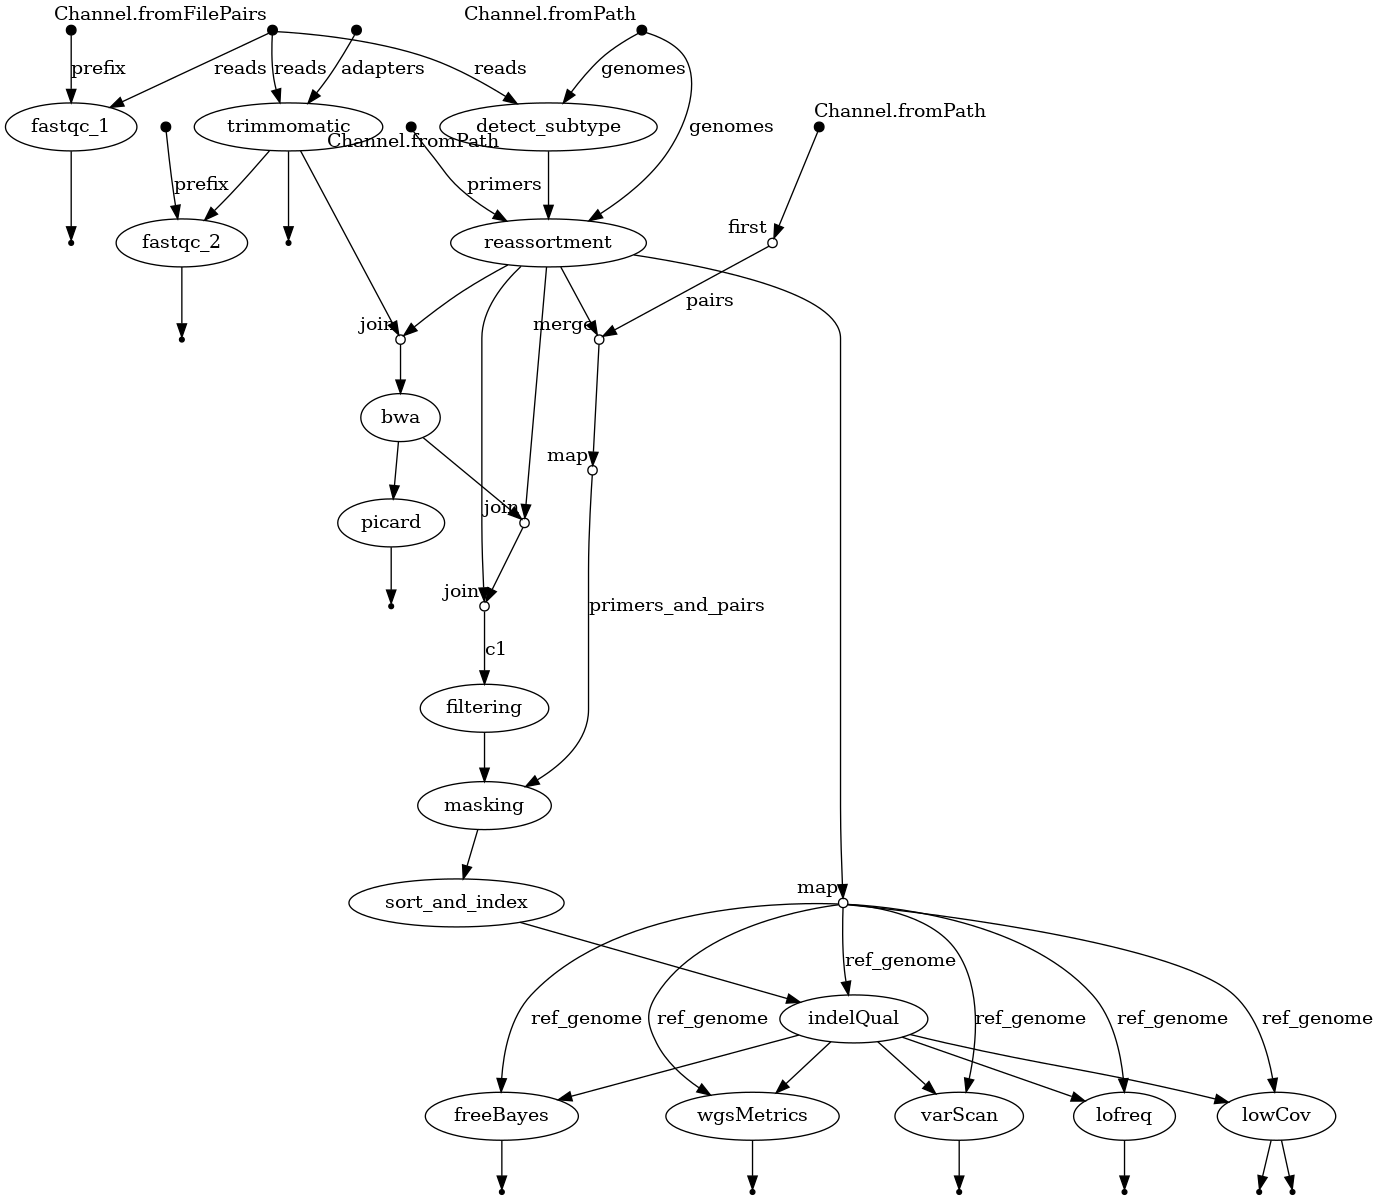
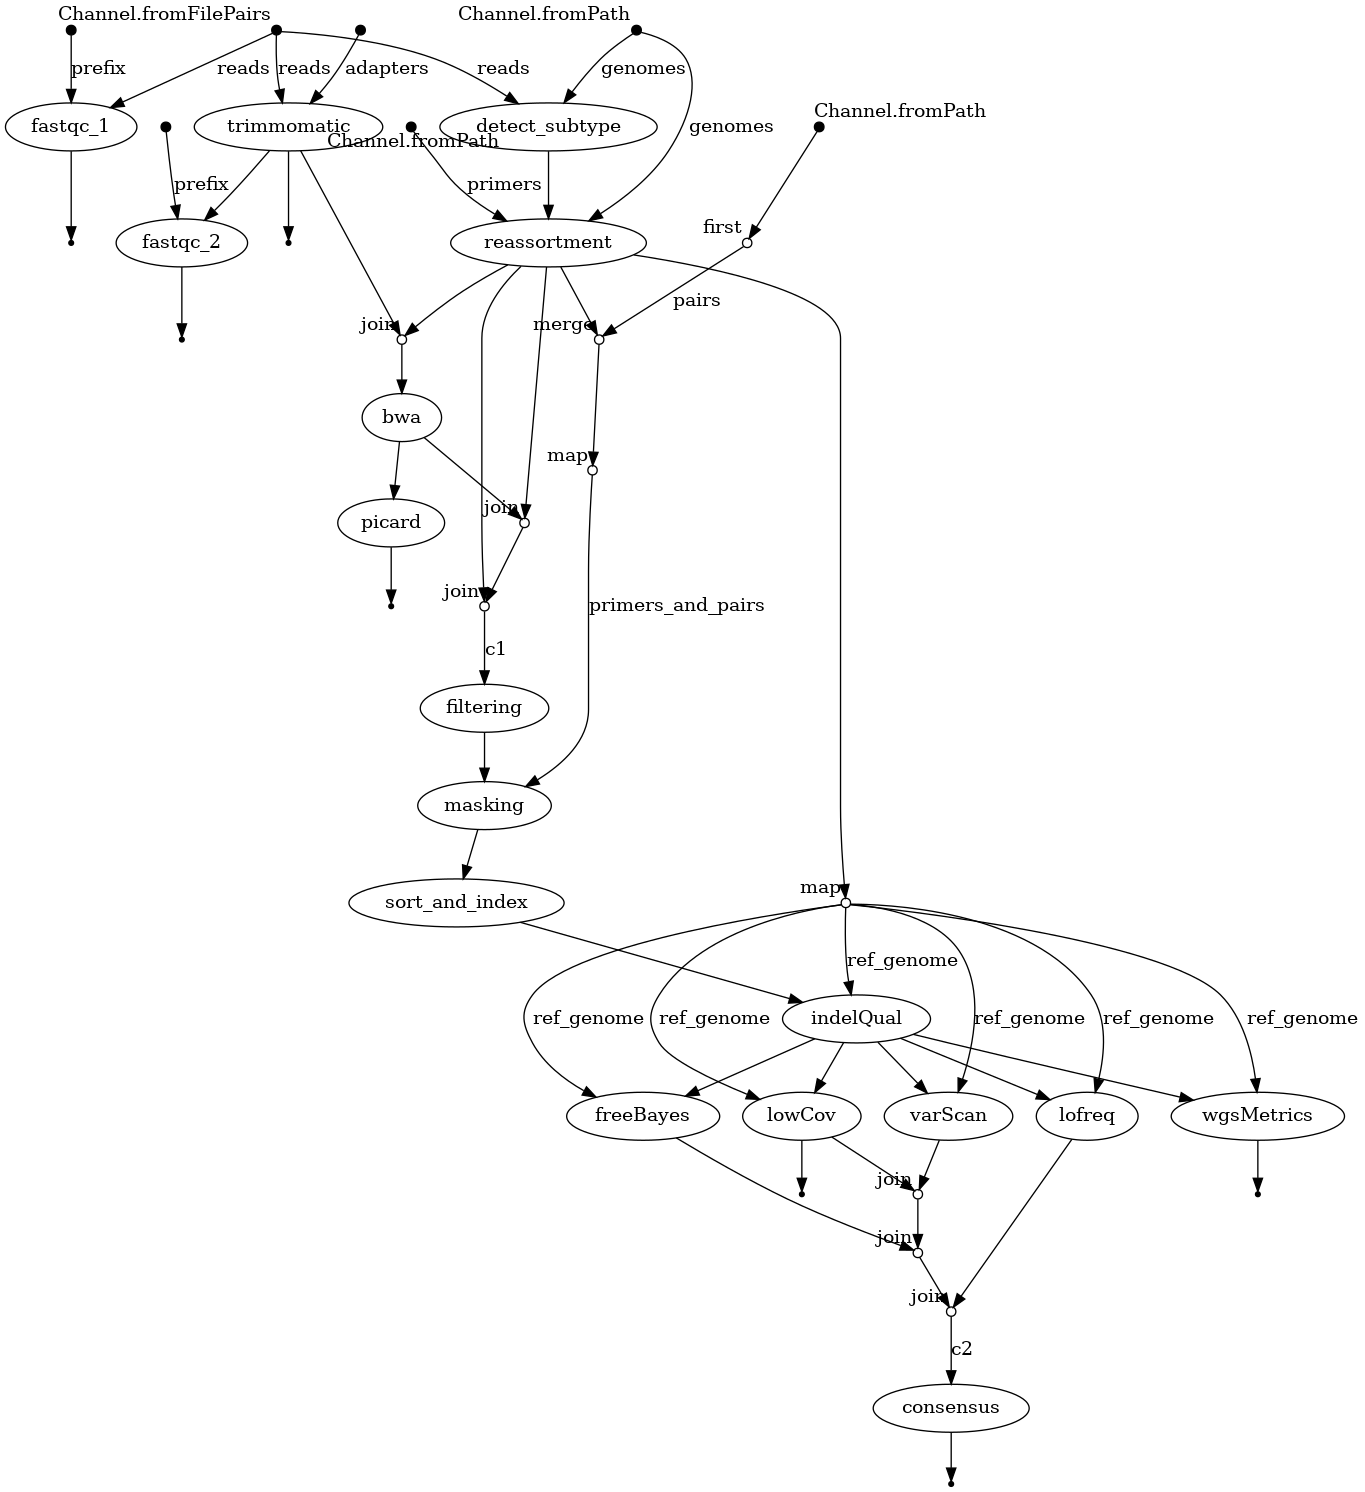
SARS and INFL pipelines merged up to consensus

diff --git a/bin/common/make_consensus.py b/bin/common/make_consensus.py
@@ -1,0 +1,147 @@
+#!/usr/bin/env python3
+
+"""
+Simple script to replace low-coverage aminoacids with N in a sequence
+Input is a alignment between reference (with N in place of low coverage regions) and a sequence with SNPs and SV
+Elements of the latter sequence will be replaced with Ns
+
+Uwaga skrypt podmieniony pod grype ktora ma wiele segmentow wiec alignment i maskowanie jest w python
+"""
+
+import os
+import re
+import subprocess
+import sys
+from typing import Dict
+
+import numpy as np
+from Bio import AlignIO
+from Bio import SeqIO
+from Bio.Align import AlignInfo
+
+
+def create_consensus(input_aln, segment):
+    alignment = AlignIO.read(input_aln, "fasta")
+    summary_align = AlignInfo.SummaryInfo(alignment)
+    with open(f'output_{segment}_consensus.fa', 'w') as f:
+        f.write(f'>{segment}\n')
+        f.write(str(summary_align.gap_consensus(threshold=0.6, ambiguous='X')))
+    return True
+
+
+def align_fasta(fasta1_file: str, *args, **kwargs) -> Dict:
+    """
+    funkcja do alignowania sekwencji.  Sekwencje albo sa w oddzielnych plikach i wtedy laczymy je w jednym
+    tmp file (usuwanym po wykonaniu funkcji), albo w jednym pliku. Do alignowania uzywamy maffta w strategii
+    auto
+    :param fasta1_file: str, sciezka do pliku fasta zawierajacego jedna lub wiecej sekwencji
+    :param args: tupple, sciezka do dowolnej liczy plikow fasta
+    :return: dict, slownik ktora jako klucze zawiera identyfikatory sekwencji z podanych pliku/plikow a jako klucze
+    alignowano sekwencje
+    """
+
+    # Najpierw normalizujemy sciezki  isprawdzamy czy podane plik/pliki istnieja
+    fasta1_file = [os.path.abspath(fasta1_file)]
+    stan1 = os.path.isfile(fasta1_file[0])
+    if not stan1:
+        raise Exception('Nie podano poprawnej sciezki do pliku!')
+    if len(args) > 0:
+        fasta1_file.extend([os.path.abspath(x) for x in args])
+        stan2 = np.alltrue([os.path.isfile(plik) for plik in fasta1_file])
+        if not stan2:
+            raise Exception('Podane dodatkowe pliki nie istnieja')
+
+    for plik in fasta1_file:
+        with open('tmp.fasta', 'a+') as f, open(plik, 'r') as f1:
+            for line in f1:
+                f.write(line)
+
+    polecenie = ('mafft --globalpair --maxiterate 1000 --quiet --inputorder tmp.fasta')
+    if 'fast' in kwargs.keys():
+        polecenie = ('mafft --retree 1 --quiet --inputorder tmp.fasta')  # komenda z
+    alignment = subprocess.Popen(polecenie, shell=True, stdout=subprocess.PIPE)
+
+    # generowanie slownika
+    slownik_alignmentu = {}
+    for line in alignment.stdout:
+        line = line.decode('UTF-8').rstrip()
+        if len(re.findall(">", line)) > 0:
+            klucz = line[:]
+            if klucz not in slownik_alignmentu.keys():
+                slownik_alignmentu[klucz] = ''
+        else:
+            slownik_alignmentu[klucz] = slownik_alignmentu[klucz] + line
+    # pozbywamy sie tepowego pliku
+    os.remove('tmp.fasta')
+
+    return slownik_alignmentu
+
+
+def get_fastas(input_fasta, program):
+    """
+    Skrypt rozdziela dwa pliki fasta do podplikow o nazwie program_segment.fasta
+    :return:
+    """
+    lista_plikow = []
+    record = SeqIO.parse(input_fasta, 'fasta')
+    for r in record:
+        with open(f'{program}_{r.id}.fasta', 'w') as file:
+            file.write(f'>{r.id}_{program}\n')
+            file.write(f'{str(r.seq)}\n')
+        lista_plikow.append(f'{program}_{r.id}.fasta')
+    return lista_plikow
+
+
+def split_final_fasta(input_fasta, prefix):
+    record = SeqIO.parse(input_fasta, 'fasta')
+    for r in record:
+        with open(f'{prefix}_{r.id}.fasta', 'w') as file:
+            file.write(f'>{r.id}\n')
+            file.write(f'{str(r.seq)}\n')
+
+
+if __name__ == '__main__':
+    lista_plikow_masked = get_fastas(sys.argv[1], 'reference')
+    lista_plikow_varsacan = get_fastas(sys.argv[2], 'varscan')
+    lista_plikow_freebayes = get_fastas(sys.argv[3], 'freebyes')
+    lista_plikow_lofreq = get_fastas(sys.argv[4], 'lofreq')
+
+    # print(lista_pliow_ref)
+    # print(lista_pliow_program)
+    # output_consensus_masked.fa
+
+    # 1 runda tworzenie sekwencji konsensusowe
+    for masked, varscan, freebayes, lofreq in zip(lista_plikow_masked, lista_plikow_varsacan, lista_plikow_freebayes, lista_plikow_lofreq):
+        # workaround for the cases when there is only one field in fasta ID
+        tmp = varscan.split('_')
+        if len(tmp) == 3:
+            segment = tmp[2].split('.')[0]
+        else:
+            segment = tmp[1].split('.')[0]
+        # end of workaround
+        slownik_segmentu = align_fasta(varscan, freebayes, lofreq)
+        with open('tmp.fasta', 'w') as f:
+            for klucz, wartosc in slownik_segmentu.items():
+                f.write(f'{klucz}\n')
+                f.write(f'{wartosc}\n')
+        create_consensus('tmp.fasta', segment)
+        os.remove('tmp.fasta')
+        with open(f'consensus.fa', 'a') as f:
+            aln = align_fasta(masked, f'output_{segment}_consensus.fa')
+            ref, target = aln.values()
+            sekwencja_with_n = ''
+            for i in range(len(ref)):
+                if ref[i] == 'n' and target[i].upper() != 'X':
+                    sekwencja_with_n += 'N'
+                elif ref[i] != 'n':
+                    sekwencja_with_n += target[i].upper()
+
+            sekwencja_with_n = ''.join([element for element in sekwencja_with_n if element != 'X'])
+            f.write(f'>{segment}\n')
+            f.write(f'{sekwencja_with_n}\n')
+        os.remove(masked)
+        os.remove(varscan)
+        os.remove(freebayes)
+        os.remove(lofreq)
+        os.remove(f'output_{segment}_consensus.fa')
+    split_final_fasta(f'consensus.fa', 'consensus')

diff --git a/bin/sarscov2/prep_own_vcf.py b/bin/sarscov2/prep_own_vcf.py
@@ -85,7 +85,7 @@ def prep_mutation_list(slownik, ref_name, target_name, n=1):
     i = 1
     # zapelniamy stany
     for k, j in zip(sekwencja_ref, sekwencja_target):
-        if k == j:
+        if k == j or (k != j and k == 'N' or j == 'N'):
             # brak mutacji
             stany.append(0)
         else:
@@ -116,7 +116,16 @@ def prep_mutation_list(slownik, ref_name, target_name, n=1):
 
     # gdyby mutacja byla na ostatnim elemencie
     if wartosc == 1:
-        lista_zakresow.append([start, koniec])
+        try:
+            lista_zakresow.append([start, koniec])
+        except:
+            pass
+
+    if len(lista_zakresow) == 0:
+        # brak mutacji
+        # dummy slownik mutacji
+        slownik_mutacji = {1: ['A', 'A']}
+        return slownik_mutacji
 
     # tworzenie irange
     # potrzebujemy dwoch list o rownej dlugosci jedna zawiera poczatki zakresu
@@ -126,7 +135,6 @@ def prep_mutation_list(slownik, ref_name, target_name, n=1):
     for i, j in lista_zakresow:
         starts.append(i)
         widths.append(j - i)
-
     x = IRanges(start=starts, width=widths)
     try:
         zasiegi_mutacji_reduced = x.reduce(min_gap_width=n + 1)
